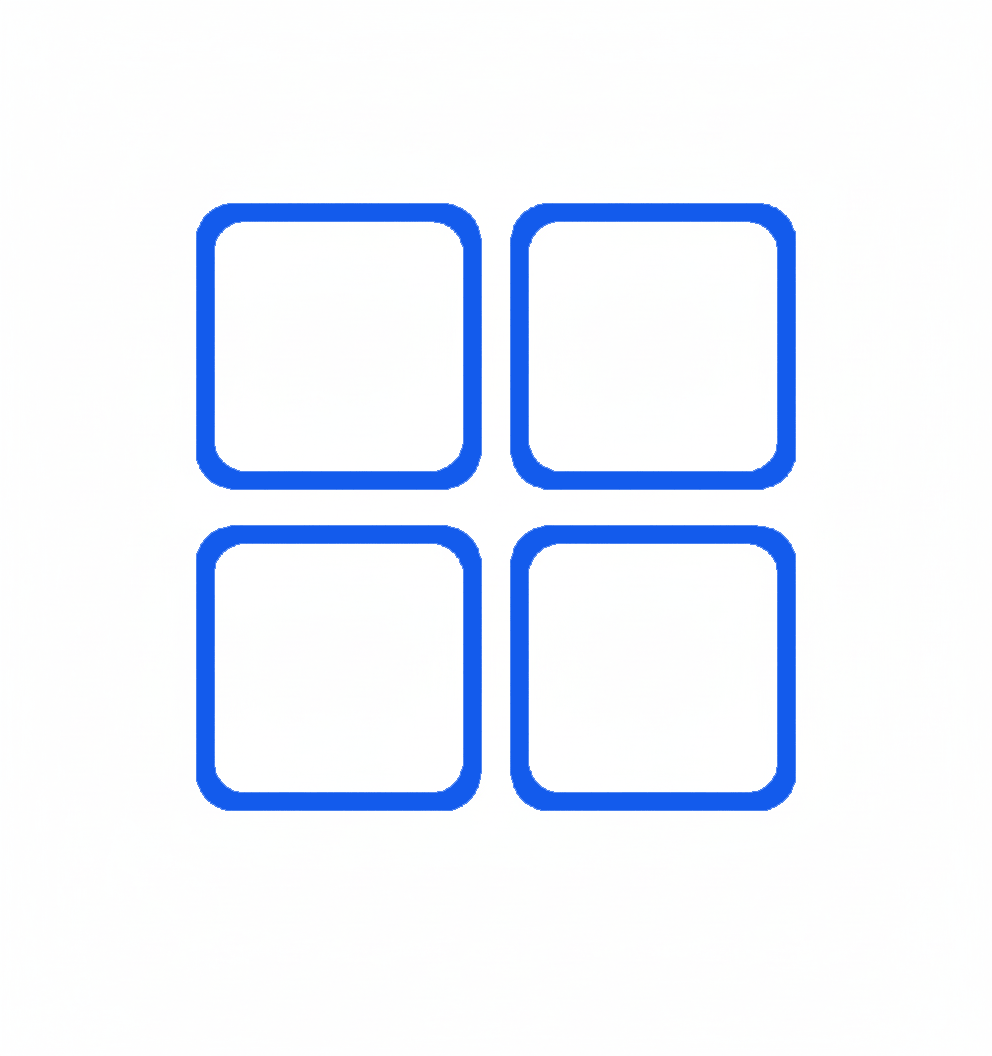
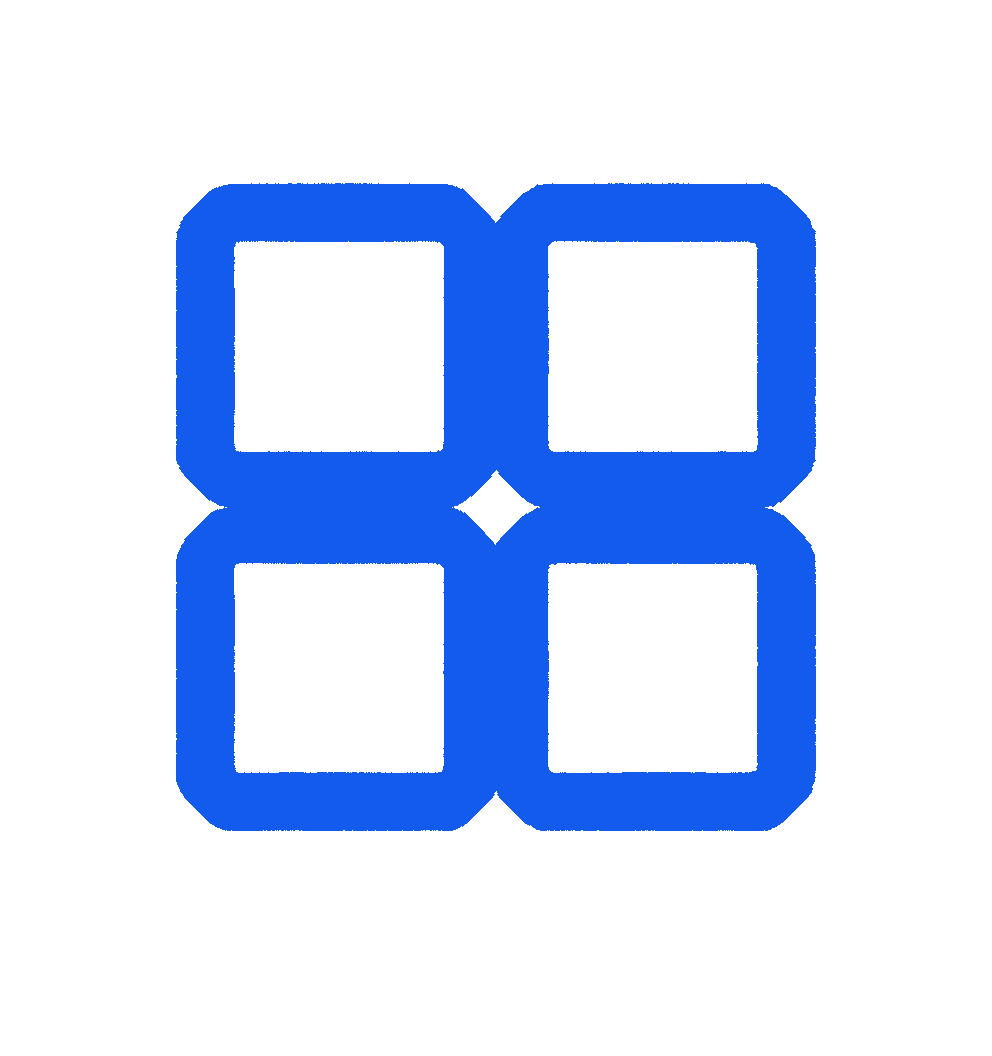
now it is the time to start card creating

Changed region(s): [[0.1562, 0.1562, 0.8438, 0.8125]]

diff --git a/src/components/skilllab/Main.tsx b/src/components/skilllab/Main.tsx
@@ -6,7 +6,32 @@ import advanced_theming_System from "../../assets/skillLab/advanced_theming_Syst
 import drag_drop from "../../assets/skillLab/drag_drop.png";
 
 const Main = () => {
-  return <div>Main</div>;
+  return (
+    <section className="my-10">
+      <div className="flex flex-row gap-3">
+        <button className="py-2 px-5 bg-black text-white rounded-2xl">
+          All
+        </button>
+        <button className="py-2 px-5 bg-white border border-gray-500 rounded-2xl">
+          React Components
+        </button>
+        <button className="py-2 px-5 bg-white border border-gray-500 rounded-2xl">
+          Animations
+        </button>
+      </div>
+      <div className="flex flex-row gap-3 mt-5 mb-10">
+        <p>View:</p>
+        <div className="bg-white rounded-md">
+          <img
+            src={fourCube}
+            alt="four cube icon"
+            className="w-7 h-7 rounded-md"
+          />
+        </div>
+        <img src={sort} alt="sorting icon" className="w-6 h-6" />
+      </div>
+    </section>
+  );
 };
 
 export default Main;
